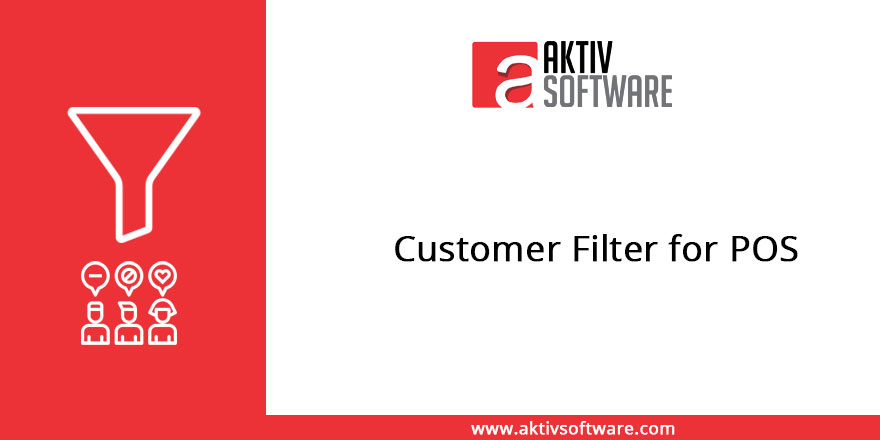
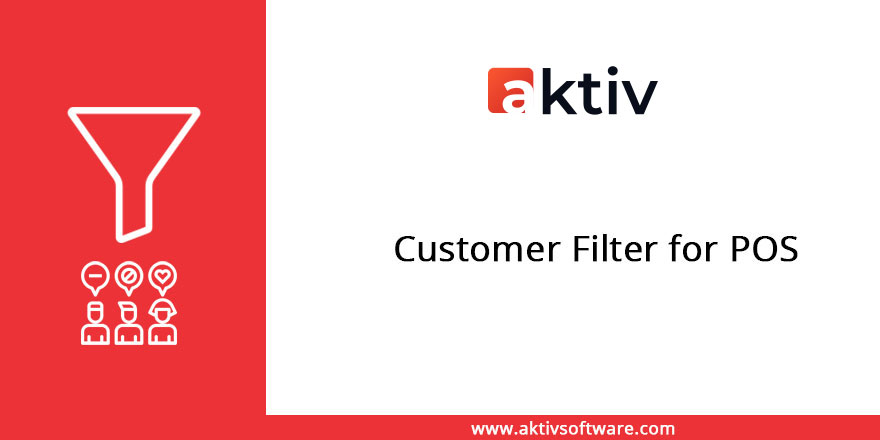
[ADD] change image in 11.0

Changed region(s): [[0.5216, 0.0886, 0.767, 0.2659]]

diff --git a/customer_filter_pos/static/description/index.html b/customer_filter_pos/static/description/index.html
@@ -73,7 +73,7 @@
 <div class="oe_row oe_spaced">
         <h2 class="oe_slogan">
             <a href="http://aktivsoftware.com/" target="new">
-                <img src="http://aktivsoftware.com/wp-content/uploads/2018/01/logo-1.png"/>
+                <img src="aktiv-logo.png"/>
             </a>
             <br/>
             <a href="mailto:sales@aktivsoftware.com" style="color: #000000 !important;">
